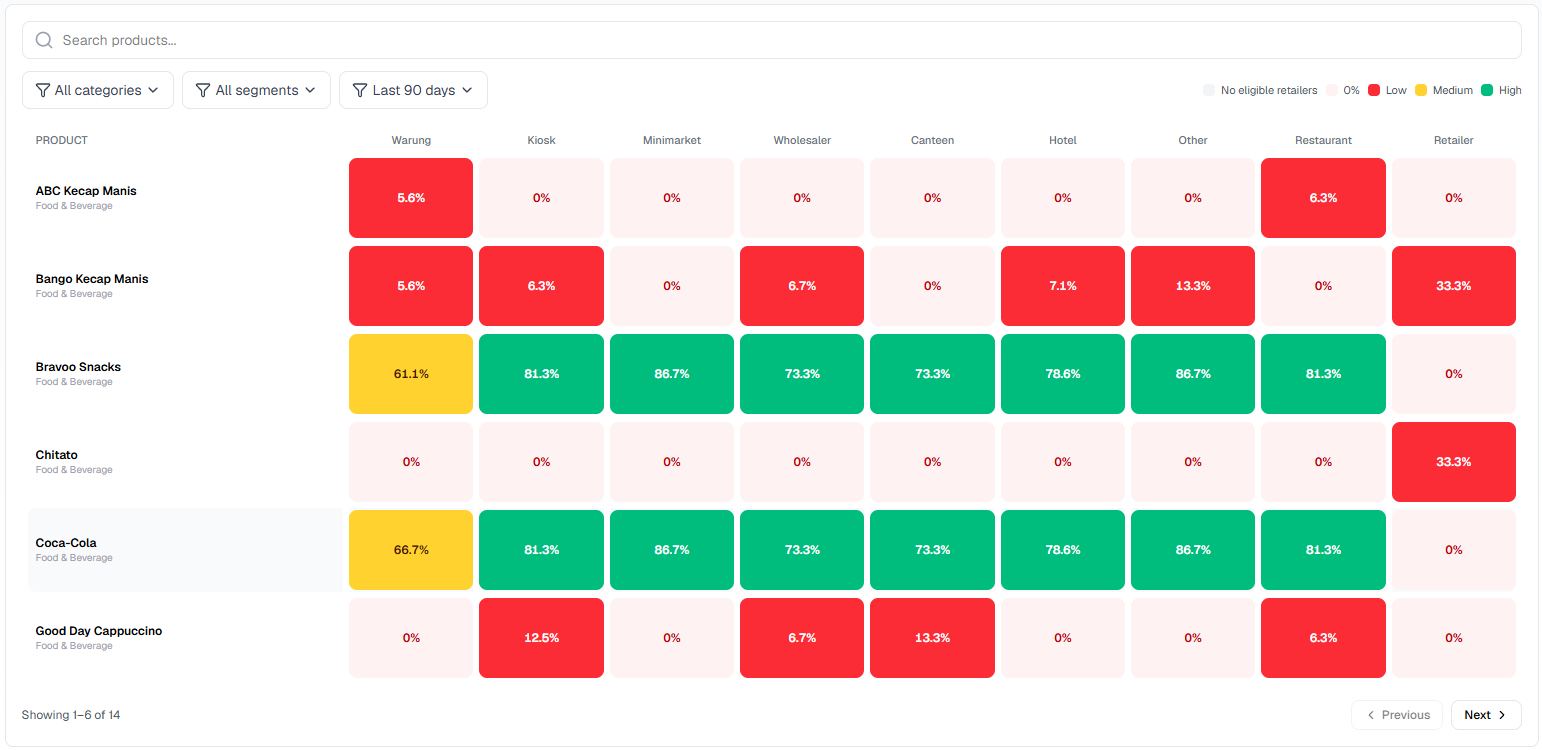
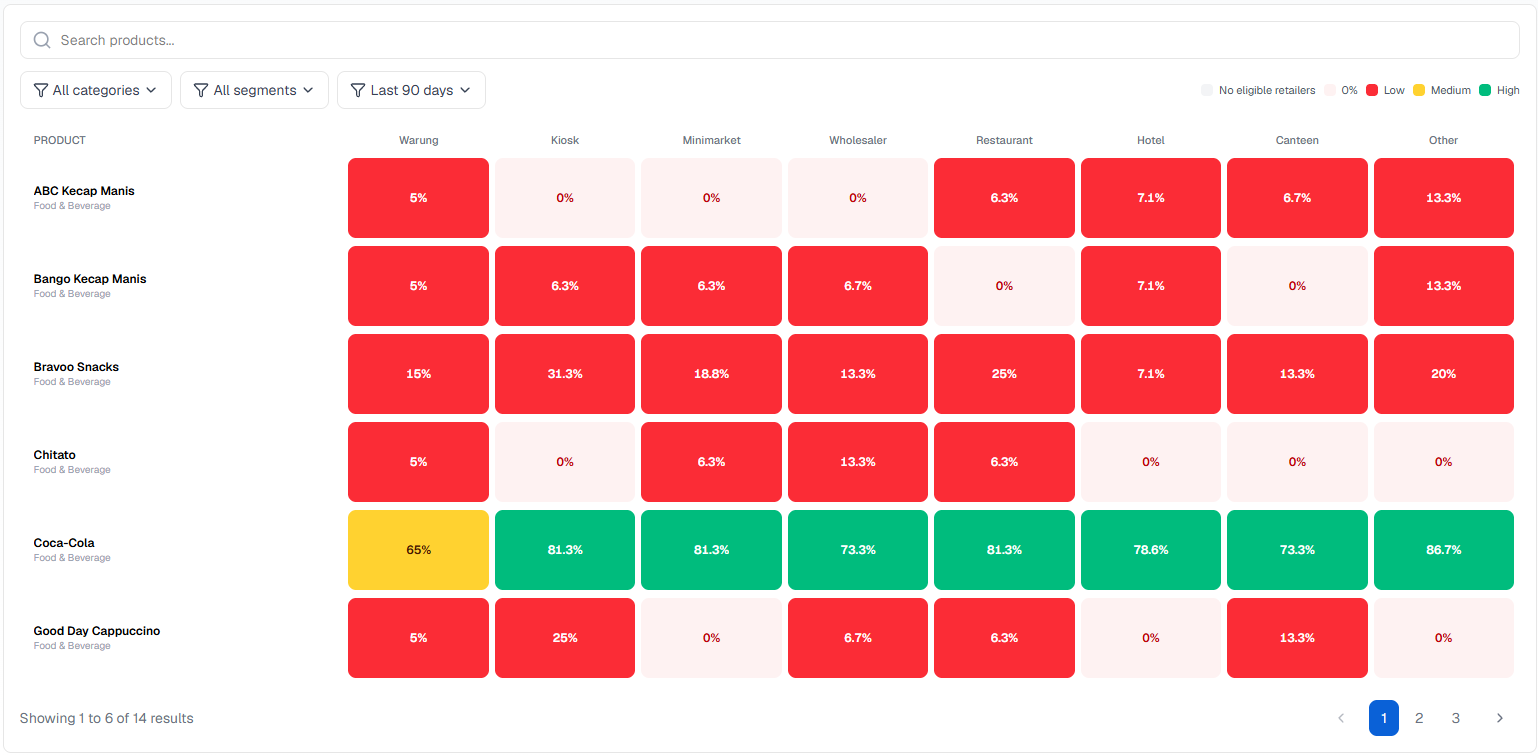
22:36 27/10/2026

diff --git a/src/components/productscatalogs/AssortmentGapHeatmap.tsx b/src/components/productscatalogs/AssortmentGapHeatmap.tsx
@@ -10,6 +10,7 @@ import {
   type AssortmentCellKind,
   type AssortmentSegment,
 } from '@/lib/products/assortmentGapShared';
+import { getVisiblePageNumbers } from '@/utils/tablePagination';
 
 const KNOWN_SEGMENT_LABELS = new Set<string>(PREFERRED_ASSORTMENT_SEGMENTS);
 
@@ -120,7 +121,7 @@ const VARIANTS_QUERY = `
 `;
 
 export default function AssortmentGapHeatmap() {
-  const { tHeatmap } = useProductsTranslations();
+  const { tHeatmap, tShared } = useProductsTranslations();
   const user = useUserStore((state) => state.user);
   const [category, setCategory] = useState('all');
   const [segment, setSegment] = useState('all');
@@ -236,6 +237,7 @@ export default function AssortmentGapHeatmap() {
   const limit = data?.limit ?? PAGE_SIZE;
   const from = total === 0 ? 0 : (page - 1) * limit + 1;
   const to = Math.min(page * limit, total);
+  const totalPages = Math.max(1, Math.ceil(total / limit) || 1);
   const segments = data?.segments?.length
     ? data.segments
     : segment === 'all'
@@ -245,6 +247,7 @@ export default function AssortmentGapHeatmap() {
   const variantTotal = variantRows?.length ?? 0;
   const variantFrom = variantTotal === 0 ? 0 : (variantPage - 1) * VARIANT_PAGE_SIZE + 1;
   const variantTo = Math.min(variantPage * VARIANT_PAGE_SIZE, variantTotal);
+  const variantTotalPages = Math.max(1, Math.ceil(variantTotal / VARIANT_PAGE_SIZE) || 1);
   const pagedVariantRows = variantRows?.slice(
     (variantPage - 1) * VARIANT_PAGE_SIZE,
     variantPage * VARIANT_PAGE_SIZE,
@@ -322,7 +325,10 @@ export default function AssortmentGapHeatmap() {
         </div>
 
         {loading ? (
-          <p className="py-16 text-center text-sm text-gray-500">{tHeatmap('loading')}</p>
+          <div className="flex flex-col items-center justify-center py-16">
+            <div className="mb-4 h-8 w-8 animate-spin rounded-full border-4 border-[#0a61d7] border-t-transparent" />
+            <p className="text-sm text-gray-600">{tHeatmap('loading')}</p>
+          </div>
         ) : error ? (
           <div className="flex flex-col items-center gap-3 py-16">
             <p className="text-sm text-red-600">{error}</p>
@@ -338,12 +344,20 @@ export default function AssortmentGapHeatmap() {
           <p className="py-16 text-center text-sm text-gray-500">{tHeatmap('empty')}</p>
         ) : (
           <div className="overflow-x-auto">
-            <table className="w-full table-fixed border-separate border-spacing-x-1.5 border-spacing-y-1 text-xs">
+            <table
+              className="w-full border-separate border-spacing-x-1.5 border-spacing-y-1 text-xs"
+              style={{ minWidth: `${10 + segments.length * 4.75}rem` }}
+            >
               <thead>
                 <tr className="text-gray-500">
-                  <th className="w-[22%] px-2 py-1 text-left text-[11px] font-medium uppercase">{tHeatmap('product')}</th>
+                  <th className="min-w-[10rem] w-[22%] px-2 py-1 text-left text-[11px] font-medium uppercase">
+                    {tHeatmap('product')}
+                  </th>
                   {segments.map((name) => (
-                    <th key={name} className="px-0.5 py-1 text-center text-[11px] font-medium">
+                    <th
+                      key={name}
+                      className="min-w-[4.75rem] whitespace-nowrap px-0.5 py-1 text-center text-[11px] font-medium"
+                    >
                       {segmentLabel(name)}
                     </th>
                   ))}
@@ -356,7 +370,7 @@ export default function AssortmentGapHeatmap() {
                     className="cursor-pointer rounded-lg hover:bg-gray-50"
                     onClick={() => void openVariants(row)}
                   >
-                    <td className="rounded-l-lg px-2 py-1 align-middle">
+                    <td className="min-w-[10rem] rounded-l-lg px-2 py-1 align-middle">
                       <button
                         type="button"
                         className="block w-full min-w-0 truncate text-left text-xs font-semibold text-black hover:underline focus:outline-none focus-visible:ring-2 focus-visible:ring-[#0a61d7]"
@@ -376,7 +390,10 @@ export default function AssortmentGapHeatmap() {
                     {segments.map((name) => {
                       const cell = row.cells.find((item) => item.segment === name);
                       return (
-                        <td key={name} className="px-0 py-0.5 text-center align-middle last:rounded-r-lg">
+                        <td
+                          key={name}
+                          className="min-w-[4.75rem] px-0 py-0.5 text-center align-middle last:rounded-r-lg"
+                        >
                           <HeatTile
                             cell={cell}
                             label={`${row.name} · ${segmentLabel(name)}`}
@@ -392,26 +409,45 @@ export default function AssortmentGapHeatmap() {
         )}
 
         {total > 0 ? (
-          <div className="mt-4 flex items-center justify-between gap-3 text-xs text-gray-600">
-            <span>{tHeatmap('showing', { from, to, total })}</span>
-            <div className="flex gap-2">
+          <div className="mt-4 flex min-w-0 flex-wrap items-center justify-between gap-3">
+            <div className="min-w-0 shrink text-sm text-gray-500">
+              {tShared('pagination.showing', { from, to, total })}
+            </div>
+            <div className="flex max-w-full min-w-0 items-center gap-2 overflow-x-auto">
               <button
                 type="button"
-                disabled={page <= 1 || loading}
-                onClick={() => setPage((current) => Math.max(1, current - 1))}
-                className="inline-flex items-center gap-1 rounded-lg border border-[#e6e6e6] bg-white px-3 py-1.5 font-medium text-black disabled:opacity-50"
+                onClick={() => setPage(Math.max(1, page - 1))}
+                disabled={page === 1 || loading}
+                aria-label={tShared('previousPage')}
+                className="shrink-0 px-3 py-1 text-sm text-gray-500 hover:text-gray-700 disabled:opacity-50 disabled:cursor-not-allowed"
               >
-                <ChevronLeft className="h-3.5 w-3.5" />
-                {tHeatmap('previous')}
+                <ChevronLeft className="w-4 h-4" />
               </button>
+              <div className="flex items-center gap-1">
+                {getVisiblePageNumbers(page, totalPages).map((pageNum) => (
+                  <button
+                    key={pageNum}
+                    type="button"
+                    onClick={() => setPage(pageNum)}
+                    disabled={loading}
+                    className={`shrink-0 px-3 py-2 text-sm rounded-lg ${
+                      page === pageNum
+                        ? 'bg-[#0a61d7] text-white'
+                        : 'text-gray-500 hover:text-gray-700 hover:bg-gray-100'
+                    }`}
+                  >
+                    {pageNum}
+                  </button>
+                ))}
+              </div>
               <button
                 type="button"
-                disabled={page * limit >= total || loading}
-                onClick={() => setPage((current) => current + 1)}
-                className="inline-flex items-center gap-1 rounded-lg border border-[#e6e6e6] bg-white px-3 py-1.5 font-medium text-black disabled:opacity-50"
+                onClick={() => setPage(Math.min(totalPages, page + 1))}
+                disabled={page === totalPages || loading}
+                aria-label={tShared('nextPage')}
+                className="shrink-0 px-3 py-1 text-sm text-gray-500 hover:text-gray-700 disabled:opacity-50 disabled:cursor-not-allowed"
               >
-                {tHeatmap('next')}
-                <ChevronRight className="h-3.5 w-3.5" />
+                <ChevronRight className="w-4 h-4" />
               </button>
             </div>
           </div>
@@ -439,69 +475,114 @@ export default function AssortmentGapHeatmap() {
             </div>
             <div className="min-h-0 flex-1 overflow-auto p-4">
               {variantLoading ? (
-                <p className="py-10 text-center text-sm text-gray-500">{tHeatmap('variantLoading')}</p>
+                <div className="flex flex-col items-center justify-center py-10">
+                  <div className="mb-4 h-8 w-8 animate-spin rounded-full border-4 border-[#0a61d7] border-t-transparent" />
+                  <p className="text-sm text-gray-600">{tHeatmap('variantLoading')}</p>
+                </div>
               ) : variantError ? (
                 <p className="py-10 text-center text-sm text-red-600">{variantError}</p>
               ) : !variantRows || variantRows.length === 0 ? (
                 <p className="py-10 text-center text-sm text-gray-500">{tHeatmap('variantEmpty')}</p>
               ) : (
                 <>
-                  <table className="w-full table-fixed border-separate border-spacing-x-1.5 border-spacing-y-1 text-xs">
-                    <thead>
-                      <tr className="text-gray-500">
-                        <th className="w-[22%] px-2 py-1 text-left text-[11px] font-medium uppercase">{tHeatmap('variant')}</th>
-                        {segments.map((name) => (
-                          <th key={name} className="px-0.5 py-1 text-center text-[11px] font-medium">
-                            {segmentLabel(name)}
+                  <div className="overflow-x-auto">
+                    <table
+                      className="w-full border-separate border-spacing-x-1.5 border-spacing-y-1 text-xs"
+                      style={{ minWidth: `${10 + segments.length * 4.75}rem` }}
+                    >
+                      <thead>
+                        <tr className="text-gray-500">
+                          <th className="min-w-[10rem] w-[22%] px-2 py-1 text-left text-[11px] font-medium uppercase">
+                            {tHeatmap('variant')}
                           </th>
-                        ))}
-                      </tr>
-                    </thead>
-                    <tbody>
-                      {(pagedVariantRows ?? []).map((row) => (
-                        <tr key={`${row.variantOptionId}-${row.variantName}`}>
-                          <td className="px-2 py-1 align-middle">
-                            <div className="truncate text-xs font-semibold text-black" title={row.variantName}>
-                              {row.variantName}
-                            </div>
-                            {row.sku ? <div className="truncate text-[10px] text-gray-400">{row.sku}</div> : null}
-                          </td>
-                          {segments.map((name) => {
-                            const cell = row.cells.find((item) => item.segment === name);
-                            return (
-                              <td key={name} className="px-0 py-0.5 text-center align-middle">
-                                <HeatTile
-                                  cell={cell}
-                                  label={`${row.variantName} · ${segmentLabel(name)}`}
-                                />
-                              </td>
-                            );
-                          })}
+                          {segments.map((name) => (
+                            <th
+                              key={name}
+                              className="min-w-[4.75rem] whitespace-nowrap px-0.5 py-1 text-center text-[11px] font-medium"
+                            >
+                              {segmentLabel(name)}
+                            </th>
+                          ))}
                         </tr>
-                      ))}
-                    </tbody>
-                  </table>
+                      </thead>
+                      <tbody>
+                        {(pagedVariantRows ?? []).map((row) => (
+                          <tr key={`${row.variantOptionId}-${row.variantName}`}>
+                            <td className="min-w-[10rem] px-2 py-1 align-middle">
+                              <div
+                                className="truncate text-xs font-semibold text-black"
+                                title={row.variantName}
+                              >
+                                {row.variantName}
+                              </div>
+                              {row.sku ? (
+                                <div className="truncate text-[10px] text-gray-400">{row.sku}</div>
+                              ) : null}
+                            </td>
+                            {segments.map((name) => {
+                              const cell = row.cells.find((item) => item.segment === name);
+                              return (
+                                <td
+                                  key={name}
+                                  className="min-w-[4.75rem] px-0 py-0.5 text-center align-middle"
+                                >
+                                  <HeatTile
+                                    cell={cell}
+                                    label={`${row.variantName} · ${segmentLabel(name)}`}
+                                  />
+                                </td>
+                              );
+                            })}
+                          </tr>
+                        ))}
+                      </tbody>
+                    </table>
+                  </div>
                   {variantTotal > VARIANT_PAGE_SIZE ? (
-                    <div className="mt-4 flex items-center justify-between gap-3 text-xs text-gray-600">
-                      <span>{tHeatmap('showing', { from: variantFrom, to: variantTo, total: variantTotal })}</span>
-                      <div className="flex gap-2">
+                    <div className="mt-4 flex min-w-0 flex-wrap items-center justify-between gap-3">
+                      <div className="min-w-0 shrink text-sm text-gray-500">
+                        {tShared('pagination.showing', {
+                          from: variantFrom,
+                          to: variantTo,
+                          total: variantTotal,
+                        })}
+                      </div>
+                      <div className="flex max-w-full min-w-0 items-center gap-2 overflow-x-auto">
                         <button
                           type="button"
-                          disabled={variantPage <= 1}
-                          onClick={() => setVariantPage((current) => Math.max(1, current - 1))}
-                          className="inline-flex items-center gap-1 rounded-lg border border-[#e6e6e6] bg-white px-3 py-1.5 font-medium text-black disabled:opacity-50"
+                          onClick={() => setVariantPage(Math.max(1, variantPage - 1))}
+                          disabled={variantPage === 1}
+                          aria-label={tShared('previousPage')}
+                          className="shrink-0 px-3 py-1 text-sm text-gray-500 hover:text-gray-700 disabled:opacity-50 disabled:cursor-not-allowed"
                         >
-                          <ChevronLeft className="h-3.5 w-3.5" />
-                          {tHeatmap('previous')}
+                          <ChevronLeft className="w-4 h-4" />
                         </button>
+                        <div className="flex items-center gap-1">
+                          {getVisiblePageNumbers(variantPage, variantTotalPages).map((pageNum) => (
+                            <button
+                              key={pageNum}
+                              type="button"
+                              onClick={() => setVariantPage(pageNum)}
+                              className={`shrink-0 px-3 py-2 text-sm rounded-lg ${
+                                variantPage === pageNum
+                                  ? 'bg-[#0a61d7] text-white'
+                                  : 'text-gray-500 hover:text-gray-700 hover:bg-gray-100'
+                              }`}
+                            >
+                              {pageNum}
+                            </button>
+                          ))}
+                        </div>
                         <button
                           type="button"
-                          disabled={variantPage * VARIANT_PAGE_SIZE >= variantTotal}
-                          onClick={() => setVariantPage((current) => current + 1)}
-                          className="inline-flex items-center gap-1 rounded-lg border border-[#e6e6e6] bg-white px-3 py-1.5 font-medium text-black disabled:opacity-50"
+                          onClick={() =>
+                            setVariantPage(Math.min(variantTotalPages, variantPage + 1))
+                          }
+                          disabled={variantPage === variantTotalPages}
+                          aria-label={tShared('nextPage')}
+                          className="shrink-0 px-3 py-1 text-sm text-gray-500 hover:text-gray-700 disabled:opacity-50 disabled:cursor-not-allowed"
                         >
-                          {tHeatmap('next')}
-                          <ChevronRight className="h-3.5 w-3.5" />
+                          <ChevronRight className="w-4 h-4" />
                         </button>
                       </div>
                     </div>
@@ -525,7 +606,7 @@ function HeatTile({
 }) {
   if (!cell) {
     return (
-      <span className="inline-flex h-20 w-full min-w-0 items-center justify-center rounded-lg bg-gray-100 text-xs font-semibold text-gray-400">
+      <span className="inline-flex h-20 w-full min-w-[3.75rem] items-center justify-center rounded-lg bg-gray-100 text-xs font-semibold text-gray-400">
         —
       </span>
     );
@@ -538,7 +619,7 @@ function HeatTile({
           ? label
           : `${label}: ${cell.purchased}/${cell.eligible} (${cell.penetration ?? 0}%)`
       }
-      className={`inline-flex h-20 w-full min-w-0 items-center justify-center rounded-lg text-xs font-semibold tabular-nums ${TILE[cell.kind]}`}
+      className={`inline-flex h-20 w-full min-w-[3.75rem] items-center justify-center rounded-lg text-xs font-semibold tabular-nums ${TILE[cell.kind]}`}
     >
       {value}
     </span>

diff --git a/src/lib/products/assortmentGap.ts b/src/lib/products/assortmentGap.ts
@@ -111,7 +111,8 @@ function sortSegments(labels: string[]): AssortmentSegment[] {
     if (!unique.has(key)) unique.set(key, cleaned);
   }
 
-  const preferred = PREFERRED_ASSORTMENT_SEGMENTS.filter((segment) => unique.has(segment.toLowerCase()));
+  // Always keep the full buyer-form column set, even with zero eligible retailers.
+  const preferred = [...PREFERRED_ASSORTMENT_SEGMENTS];
   const preferredKeys = new Set(preferred.map((segment) => segment.toLowerCase()));
   const rest = [...unique.values()]
     .filter((segment) => !preferredKeys.has(segment.toLowerCase()))
@@ -134,8 +135,7 @@ async function loadSegmentsForUser(userId: number, requestedSegment?: string | n
     GROUP BY 1
   `;
 
-  const discovered = sortSegments(rows.map((row) => row.segment).filter(Boolean));
-  return discovered.length > 0 ? discovered : [...PREFERRED_ASSORTMENT_SEGMENTS];
+  return sortSegments(rows.map((row) => row.segment).filter(Boolean));
 }
 
 function buildCells(
@@ -242,7 +242,7 @@ export async function computeAssortmentGap(args: {
         AND o."isDeleted" = false
         AND o."buyerId" IS NOT NULL
         AND oi."productId" IS NOT NULL
-        AND LOWER(TRIM(o."orderStatus")) NOT IN ('cancelled', 'canceled')
+        AND LOWER(TRIM(o."orderStatus")) NOT IN ('cancelled', 'canceled', 'failed', 'returned')
         AND LOWER(TRIM(b."status")) IN (${Prisma.join([...ELIGIBLE_STATUSES])})
         AND LOWER(TRIM(b."businessType")) IN (${Prisma.join(segmentKeys)})
         AND oi."productId" IN (${Prisma.join(productIds)})
@@ -341,7 +341,7 @@ export async function computeAssortmentGapVariants(args: {
           AND o."isDeleted" = false
           AND o."buyerId" IS NOT NULL
           AND oi."productId" = ${product.productId}
-          AND LOWER(TRIM(o."orderStatus")) NOT IN ('cancelled', 'canceled')
+          AND LOWER(TRIM(o."orderStatus")) NOT IN ('cancelled', 'canceled', 'failed', 'returned')
           AND LOWER(TRIM(b."status")) IN (${Prisma.join([...ELIGIBLE_STATUSES])})
           AND LOWER(TRIM(b."businessType")) IN (${Prisma.join(segmentKeys)})
           ${periodSql}

diff --git a/src/lib/products/assortmentGapShared.ts b/src/lib/products/assortmentGapShared.ts
@@ -1,7 +1,19 @@
 /** Client-safe heatmap constants. Do not import server modules here. */
 
-/** Preferred column order when these buyer types exist. Extra buyer types still appear. */
-export const PREFERRED_ASSORTMENT_SEGMENTS = ['Warung', 'Kiosk', 'Minimarket', 'Wholesaler'] as const;
+/**
+ * Always-shown heatmap columns (buyer form business types, in display order).
+ * Extra buyer types from the account still appear after these.
+ */
+export const PREFERRED_ASSORTMENT_SEGMENTS = [
+  'Warung',
+  'Kiosk',
+  'Minimarket',
+  'Wholesaler',
+  'Restaurant',
+  'Hotel',
+  'Canteen',
+  'Other',
+] as const;
 
 /** @deprecated Use PREFERRED_ASSORTMENT_SEGMENTS; kept for older imports. */
 export const ASSORTMENT_SEGMENTS = PREFERRED_ASSORTMENT_SEGMENTS;
